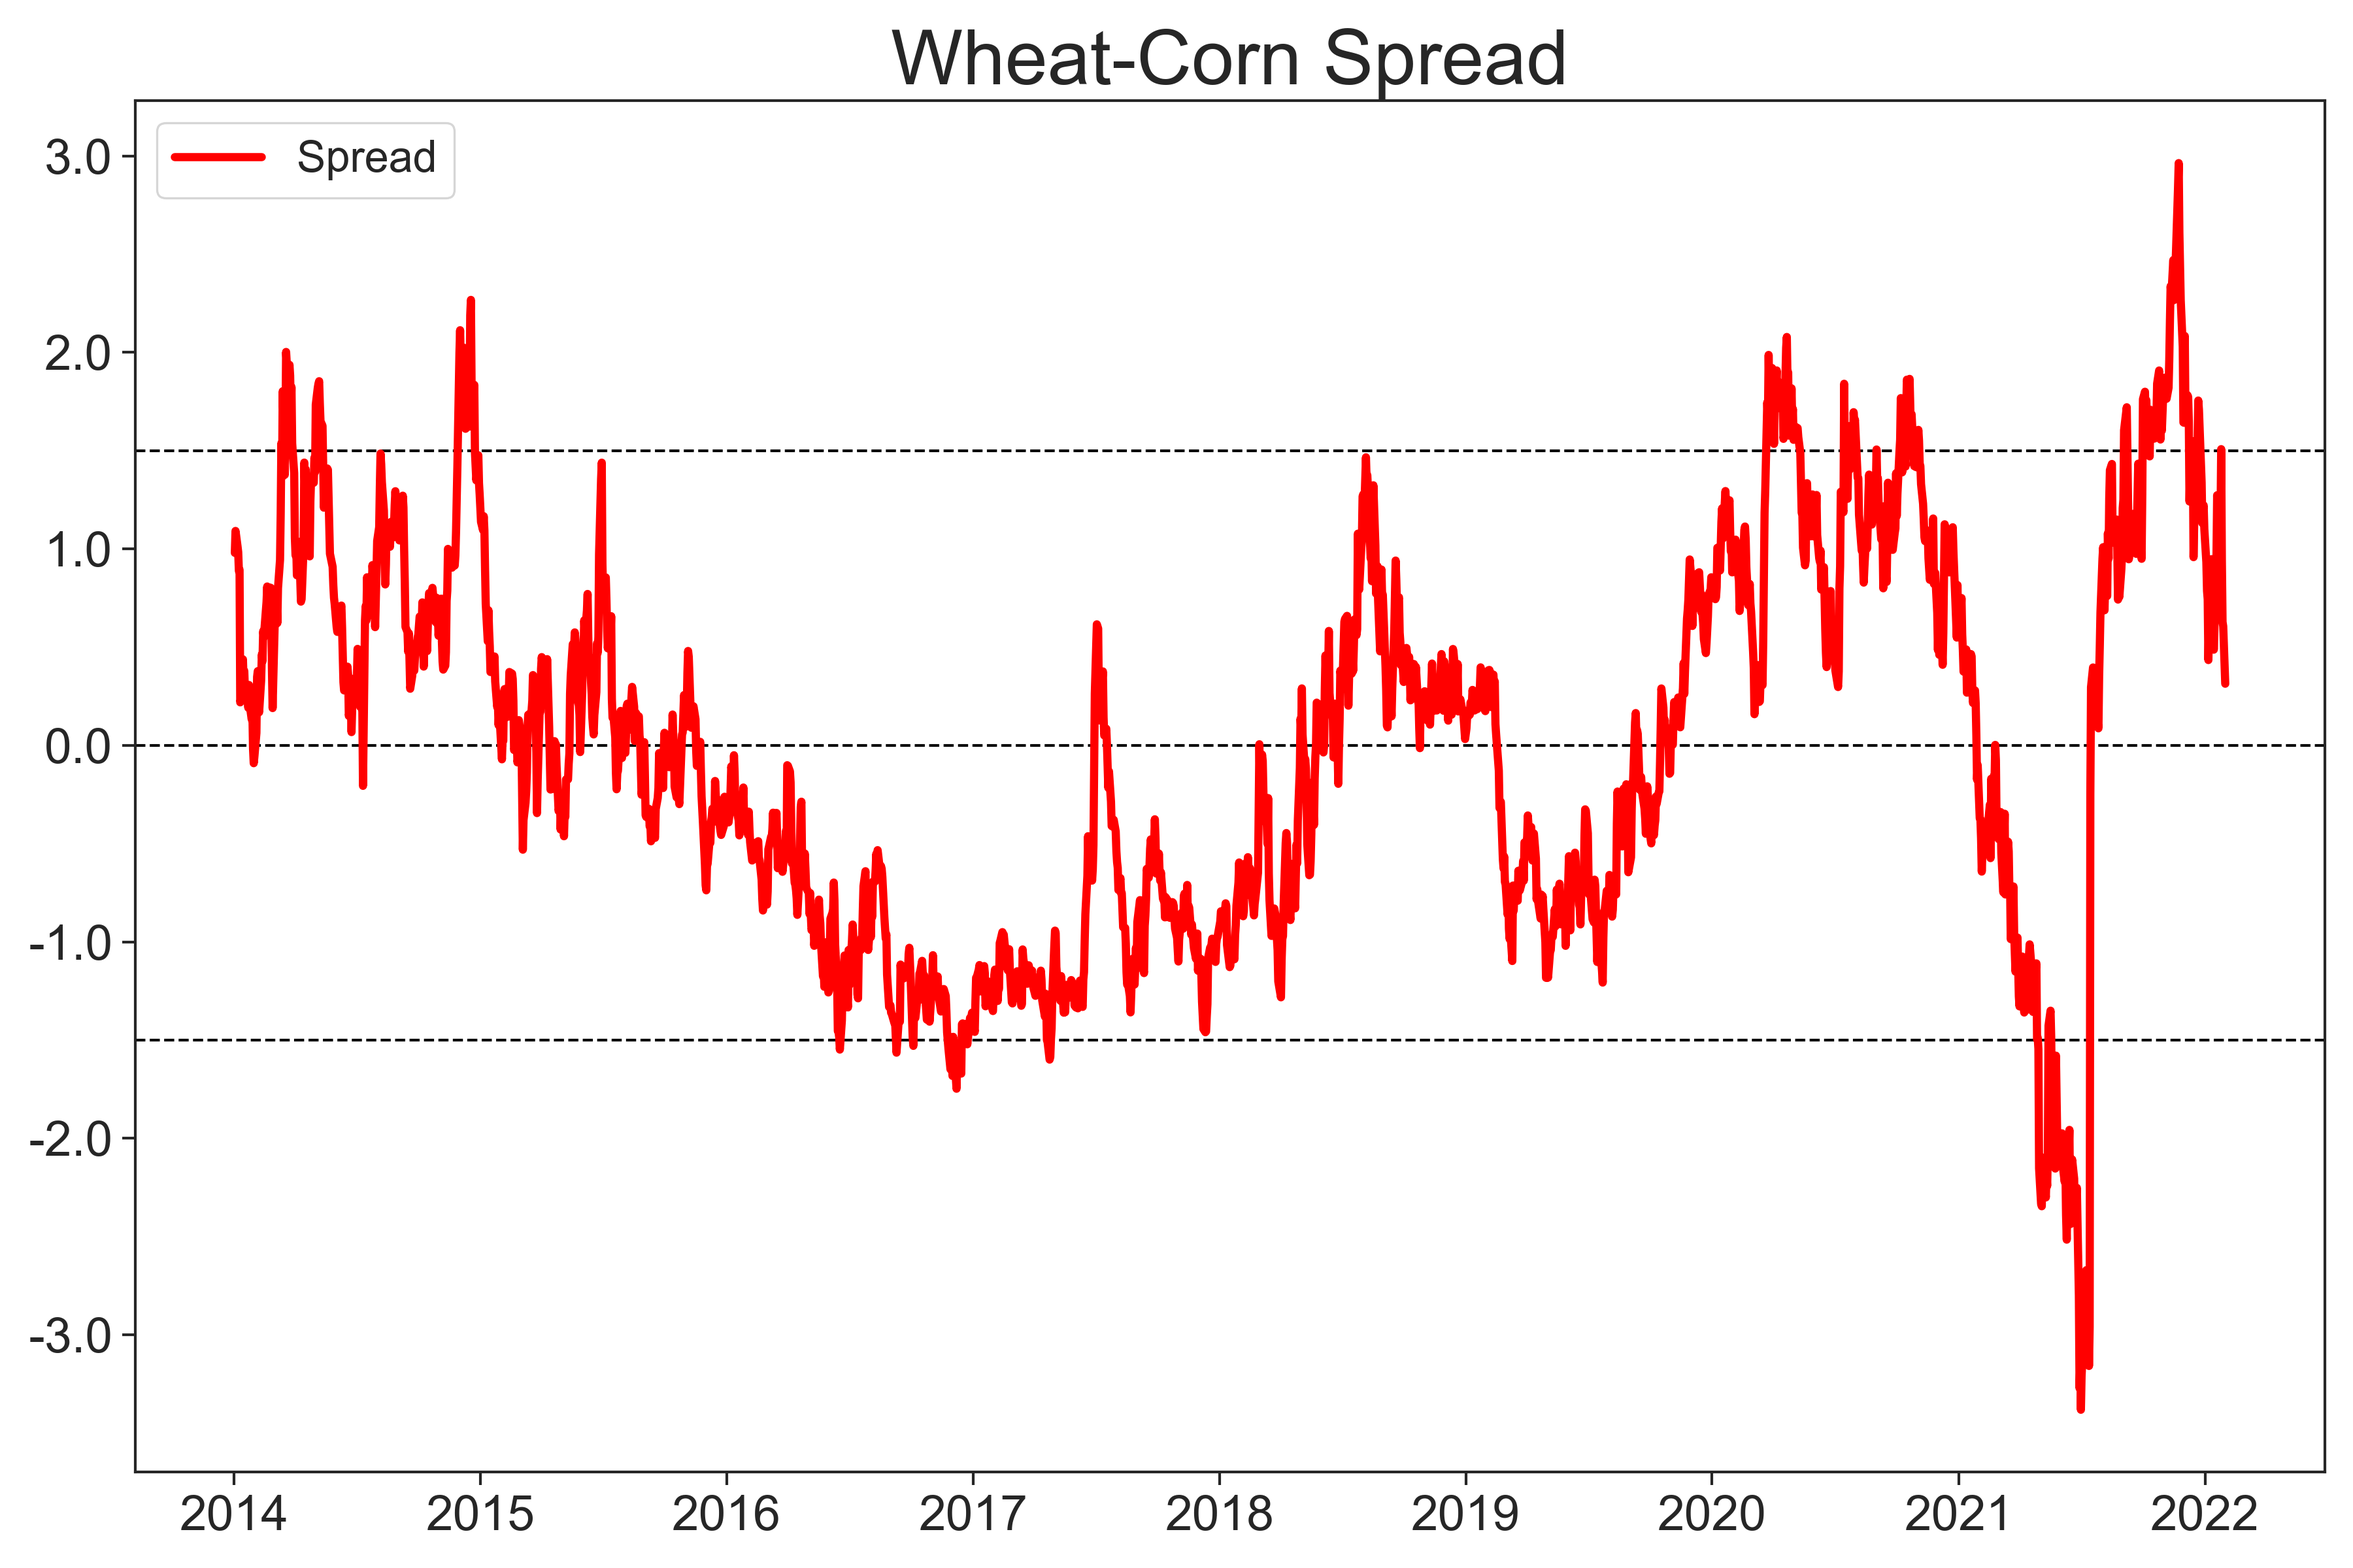
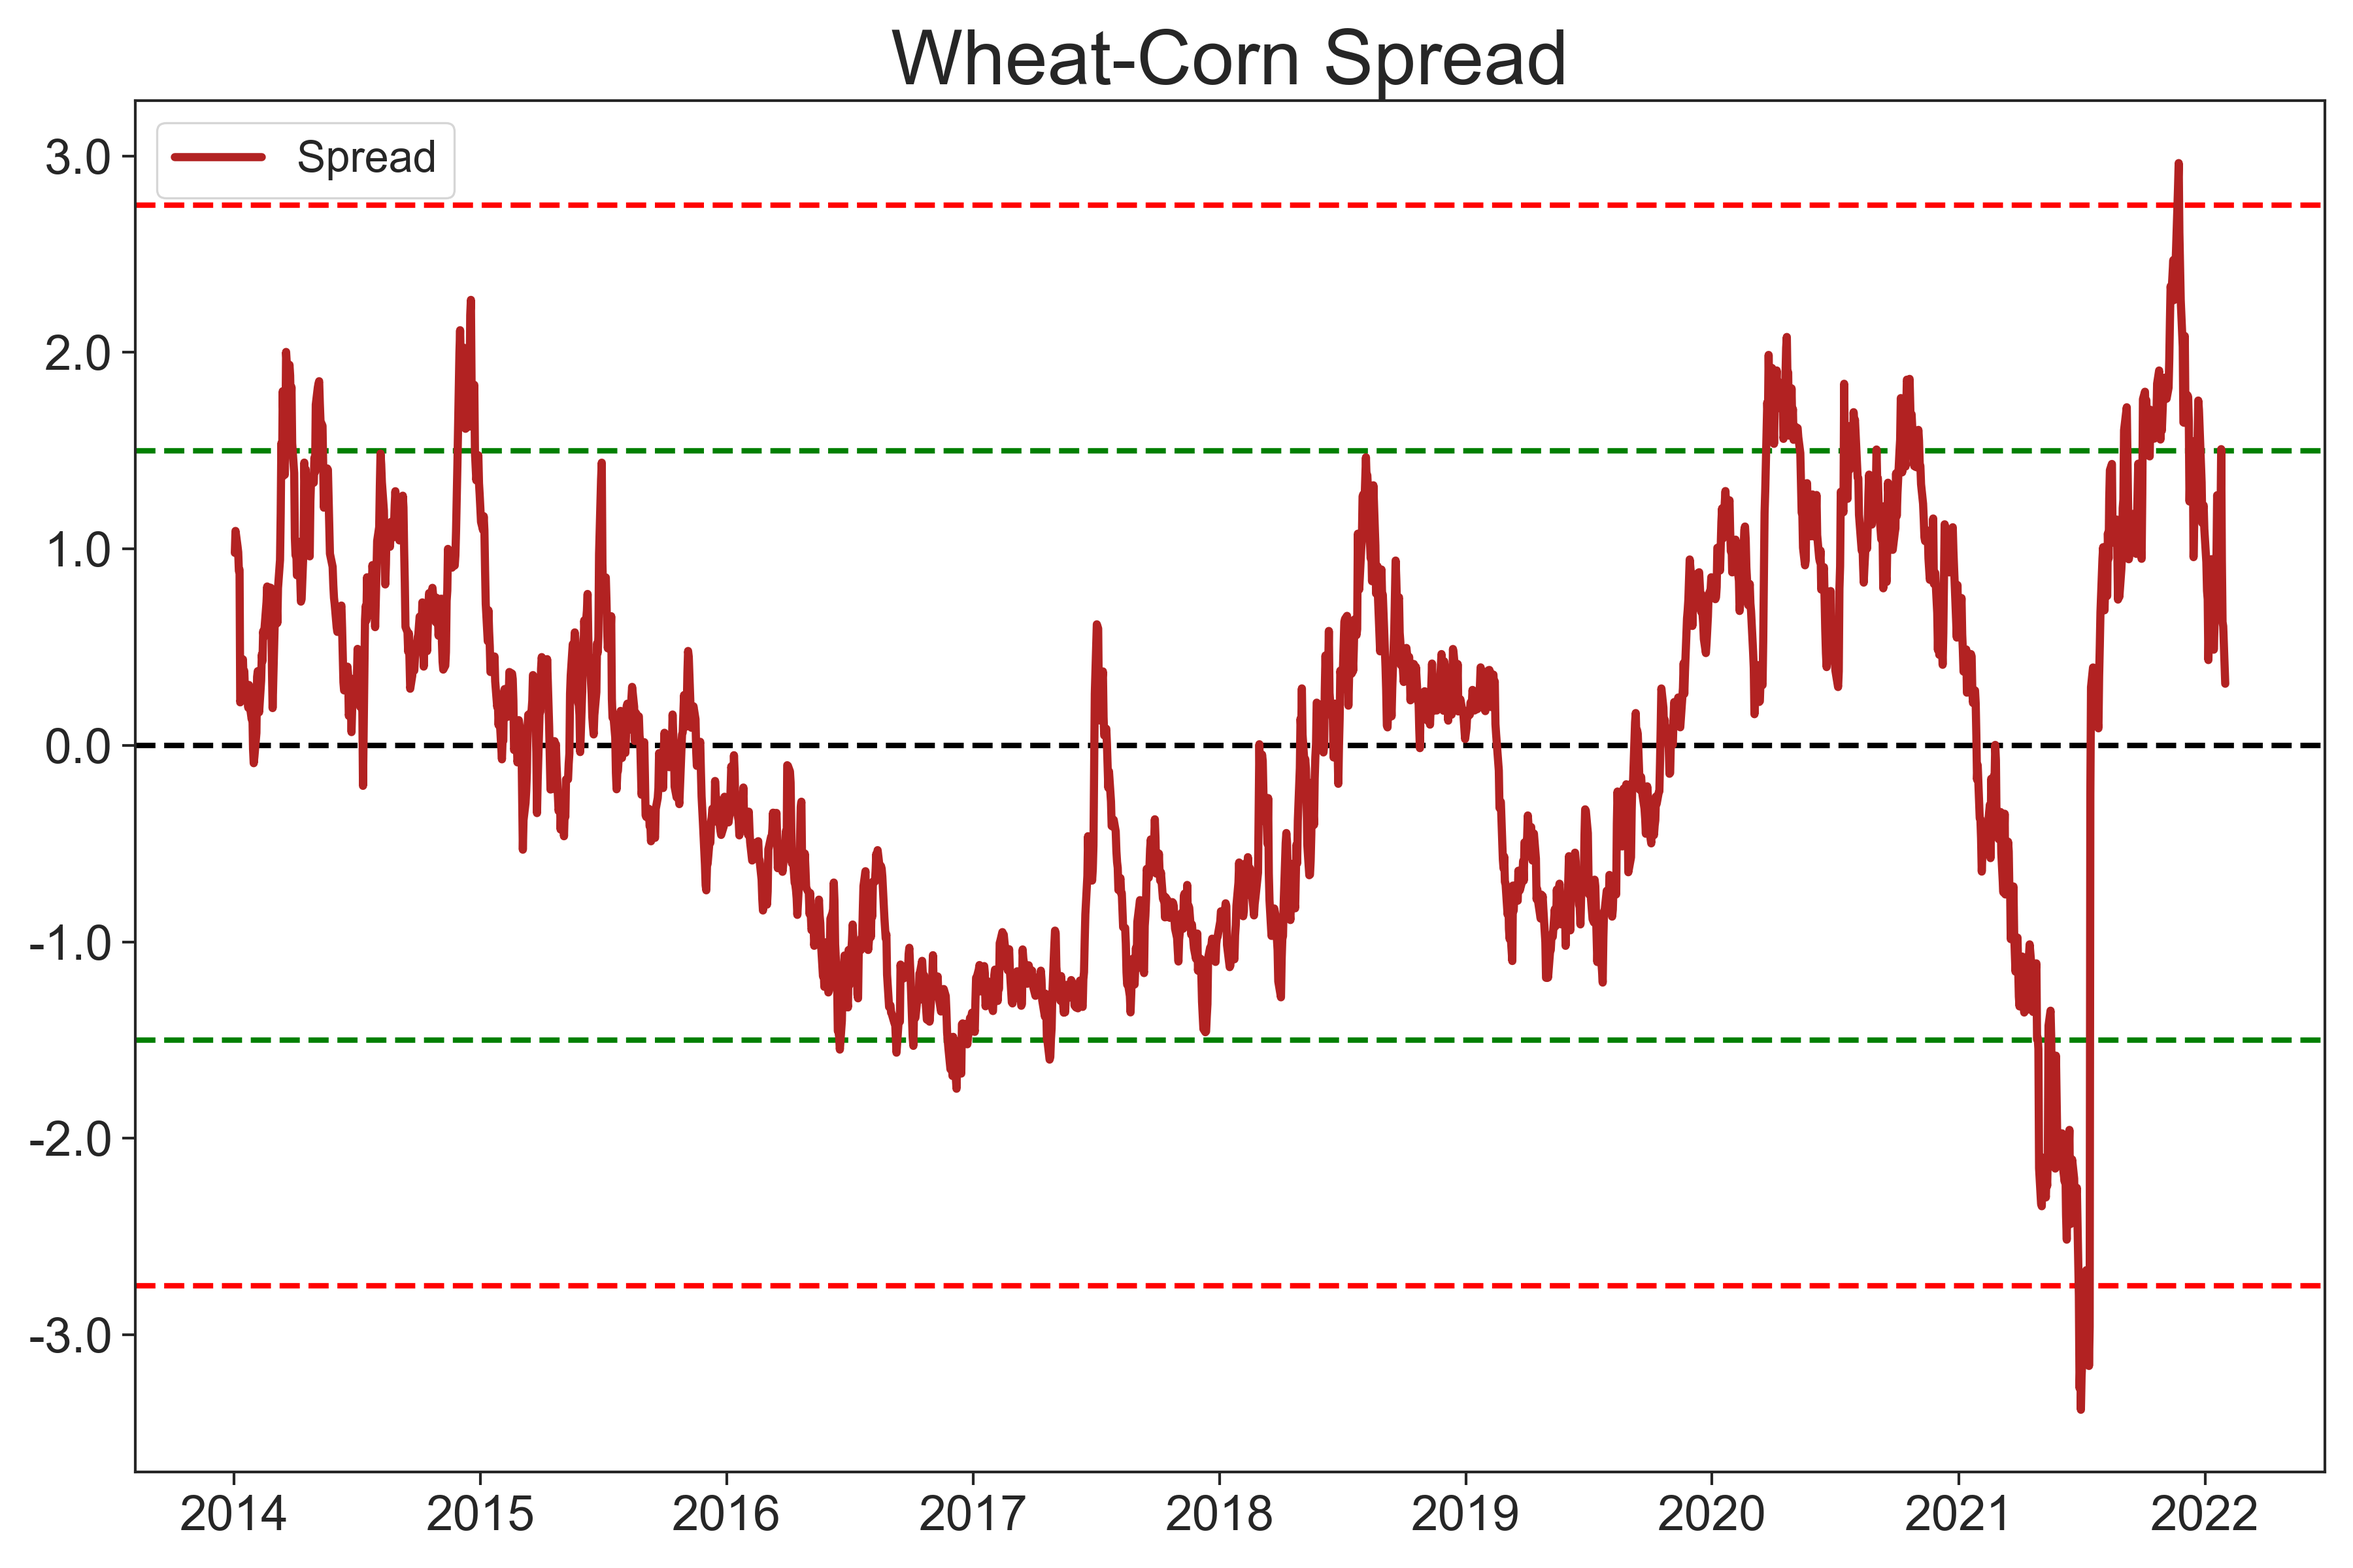
Final changes

diff --git a/main.py b/main.py
@@ -250,10 +250,12 @@ ax = fig.add_subplot()
 ax.grid(False)
 ax.set_title(label='Wheat-Corn Spread', size=28)
 # Items
-ax.axhline(y=0, color='black', ls='--', lw=1)
-ax.axhline(y=1.5, color='black', ls='--', lw=1)
-ax.axhline(y=-1.5, color='black', ls='--', lw=1)
-sns.lineplot(x=pd.to_datetime(s_spread.index), y=s_spread, label='Spread', color='red', lw=3)
+ax.axhline(y=0, color='black', ls='--', lw=2)
+ax.axhline(y=1.5, color='green', ls='--', lw=2)
+ax.axhline(y=-1.5, color='green', ls='--', lw=2)
+ax.axhline(y=2.75, color='red', ls='--', lw=2)
+ax.axhline(y=-2.75, color='red', ls='--', lw=2)
+sns.lineplot(x=pd.to_datetime(s_spread.index), y=s_spread, label='Spread', color='lightcoral', lw=3)
 # X-axis settings
 date_locator = mdates.YearLocator()
 date_formatter = mdates.DateFormatter('%Y')
@@ -375,7 +377,7 @@ ax.grid(False)
 ax.set_title(label='Rolling Correlations (OS)', size=28)
 # Items
 sns.lineplot(x=pd.to_datetime(df_PT_outsample1.index), y=df_PT_outsample1['Corr Prices'], label='Corr Prices', color='green', lw=3)
-sns.lineplot(x=pd.to_datetime(df_PT_outsample1.index), y=df_PT_outsample1['Corr Returns'], label='Corr Returns', color='firebrick', lw=3)
+sns.lineplot(x=pd.to_datetime(df_PT_outsample1.index), y=df_PT_outsample1['Corr Returns'], label='Corr Log-Returns', color='firebrick', lw=3)
 # X-axis settings
 date_locator = mdates.YearLocator()
 date_formatter = mdates.DateFormatter('%Y')
@@ -455,11 +457,13 @@ ax = fig.add_subplot()
 ax.grid(False)
 ax.set_title(label='Spread OS vs. IS', size=28)
 # Items
-ax.axhline(y=0, color='black', ls='--', lw=1)
-ax.axhline(y=1.5, color='black', ls='--', lw=1)
-ax.axhline(y=-1.5, color='black', ls='--', lw=1)
+ax.axhline(y=0, color='black', ls='--', lw=2)
+ax.axhline(y=1.5, color='green', ls='--', lw=2)
+ax.axhline(y=-1.5, color='green', ls='--', lw=2)
+ax.axhline(y=2.75, color='red', ls='--', lw=2)
+ax.axhline(y=-2.75, color='red', ls='--', lw=2)
 sns.lineplot(x=pd.to_datetime(df_PT_outsample1.index), y=df_PT_outsample1['Spread'], label='Spread OS', color='orange', lw=3)
-sns.lineplot(x=pd.to_datetime(df_PT_insample3.index), y=df_PT_insample3['Spread'], label='Spread IS', color='red', lw=3)
+sns.lineplot(x=pd.to_datetime(df_PT_insample3.index), y=df_PT_insample3['Spread'], label='Spread IS', color='lightcoral', lw=3)
 # X-axis settings
 date_locator = mdates.YearLocator()
 date_formatter = mdates.DateFormatter('%Y')

diff --git a/scripts/functions.py b/scripts/functions.py
@@ -725,8 +725,8 @@ def plot_PT_wealth_positions_leverage(df_PT, question, method, L, zstop=None, co
     ax.grid(False)
     ax.set_title(label='Evolution of Wealth ({}, L={}, zstop={}, coint={})'.format(method, L, zstop, coint), size=28)
     # Items
-    ax.axhline(y=df_PT.iloc[0, df_PT.columns.get_loc('Equity')], color='black', ls='--', lw=1)
-    sns.lineplot(x=pd.to_datetime(df_PT.index), y=df_PT['Equity'], label='Wealth', color='blue', lw=3)
+    ax.axhline(y=df_PT.iloc[0, df_PT.columns.get_loc('Equity')], color='black', ls='--', lw=2)
+    sns.lineplot(x=pd.to_datetime(df_PT.index), y=df_PT['Equity'], label='Wealth', color='royalblue', lw=3)
     # X-axis settings
     date_locator = mdates.YearLocator()
     date_formatter = mdates.DateFormatter('%Y')
@@ -780,7 +780,7 @@ def plot_PT_wealth_positions_leverage(df_PT, question, method, L, zstop=None, co
     ax.grid(False)
     ax.set_title(label='Evolution of Leverage ({}, L={}, zstop={}, coint={})'.format(method, L, zstop, coint), size=28)
     # Items
-    ax.axhline(y=L, color='black', ls='--', lw=1)
+    ax.axhline(y=L, color='black', ls='--', lw=2)
     sns.lineplot(x=pd.to_datetime(df_PT.index), y=(df_PT['Short Securities'] / df_PT['Margin Account']).fillna(0), label='Leverage', color='purple', lw=3)
     # X-axis settings
     date_locator = mdates.YearLocator()
@@ -790,7 +790,7 @@ def plot_PT_wealth_positions_leverage(df_PT, question, method, L, zstop=None, co
     ax.xaxis.set_major_formatter(date_formatter)
     ax.set_xlabel(xlabel='')
     # Y-axis settings
-    ax.set_yticklabels(labels=['{:.0f}'.format(y) for y in ax.get_yticks()], size=18)
+    ax.set_yticklabels(labels=['{:.1f}'.format(y) for y in ax.get_yticks()], size=18)
     ax.set_ylabel(ylabel='')
     # Legend settings
     ax.legend(loc='upper left', fontsize=16)
